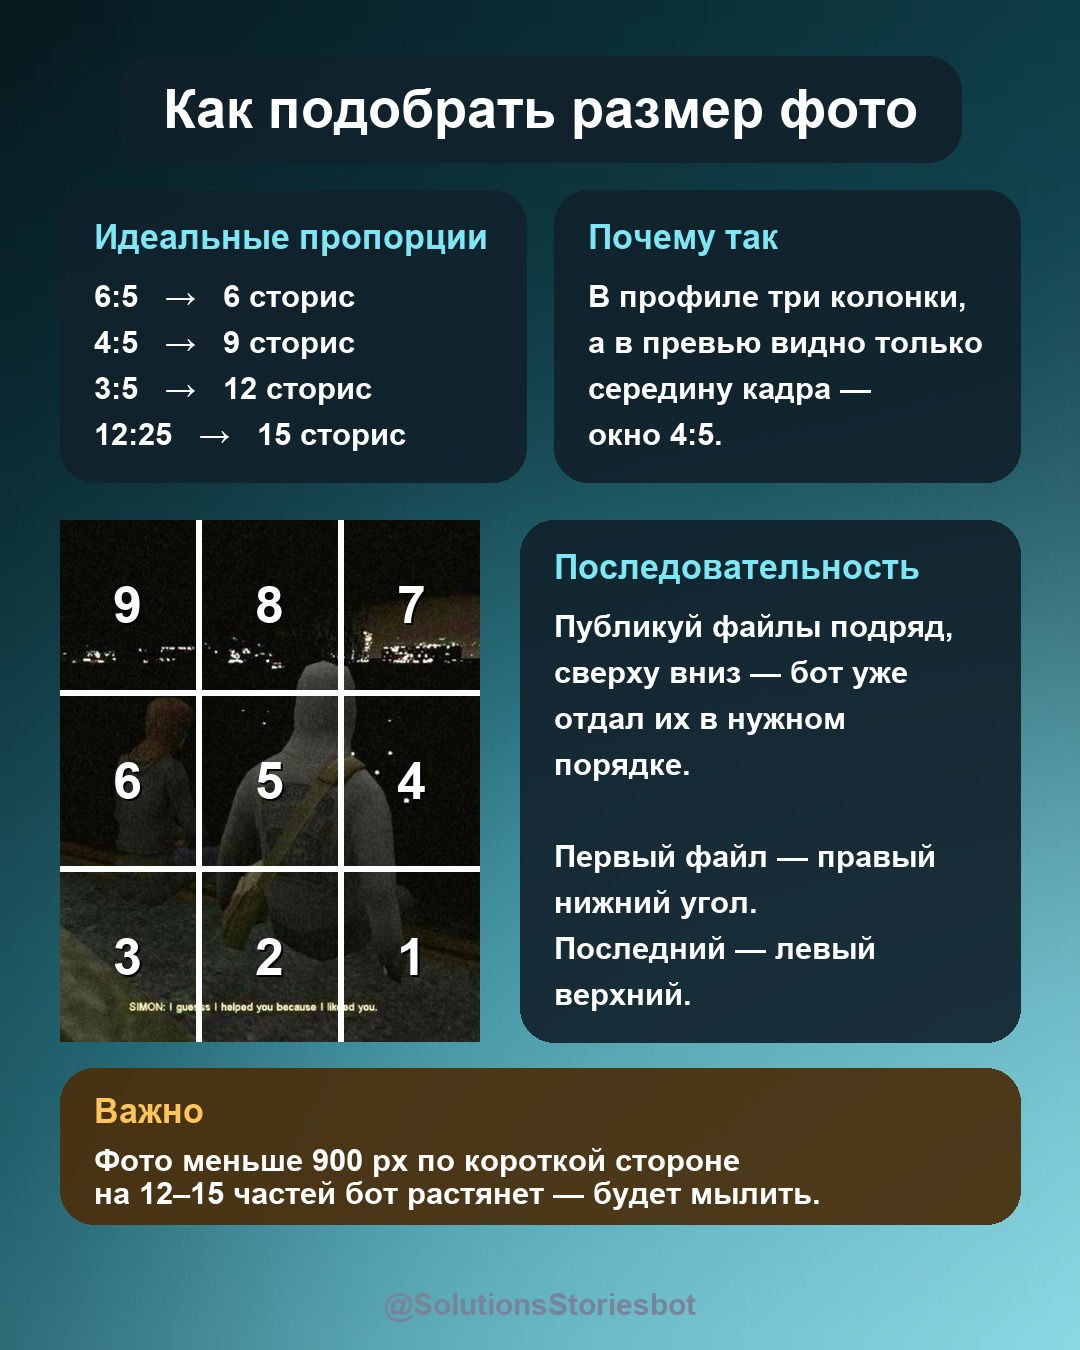
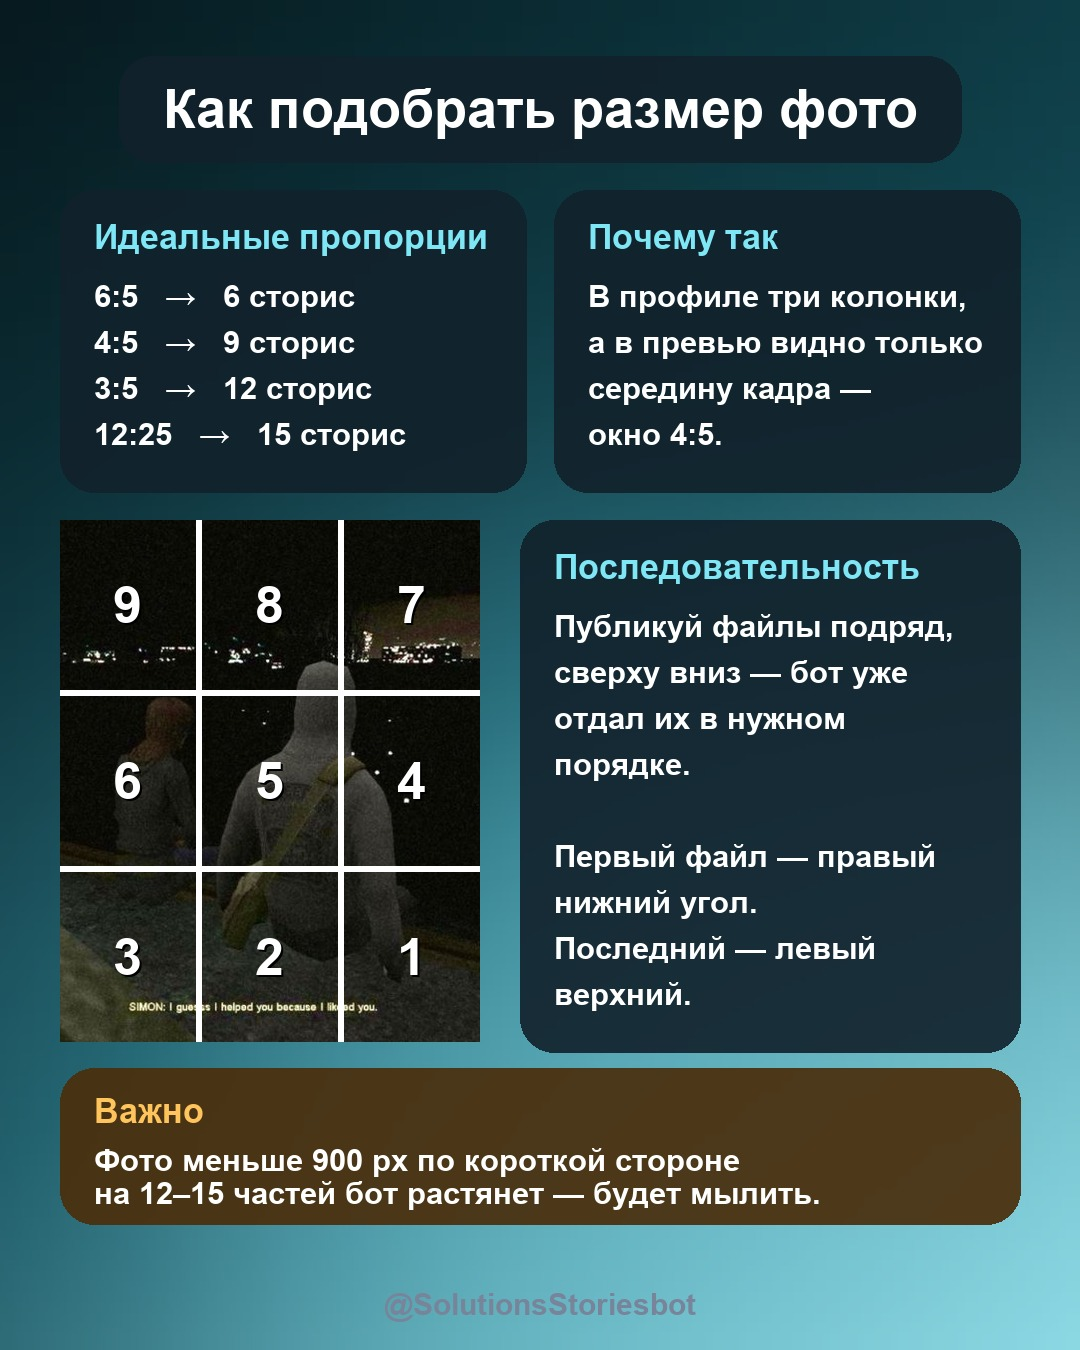
Рамки сомкнуты в ленту; плашки считают высоту от текста
Элементы стояли с зазорами, и глаз читал ряд отдельных значков, а не
венок. Теперь каждая рамка — сомкнутая лента в два слоя: задний сдвинут
на полшага и закрывает стыки переднего. Лавру заузили лист (широкий
давал шестерёнку), цепи подняли число звеньев с 16 до 26 — при 16 они
физически не доставали друг до друга.

Звёздная пыль была россыпью по площади: у россыпи нет края, поэтому
она и не читалась как рамка. Стала кольцом из трёх рядов.

chip() считает высоту плашки от числа строк. Заданная руками уже дважды
оказывалась короче текста, и последние строки уезжали на градиент —
это и были «вылетающие буквы».

Changed region(s): [[0.4889, 0.7467, 0.9472, 0.7778], [0.5194, 0.3422, 0.9472, 0.3733], [0.2139, 0.3422, 0.4889, 0.3733]]

diff --git a/frames.py b/frames.py
@@ -223,23 +223,30 @@ SHADE = (0, 0, 0, 120)
 
 
 def _laurel(w: Wreath) -> Image.Image:
-    """Лавр: две ветви от низа вверх, листья мельчают к вершине."""
-    gold, dark, shine = (238, 202, 120), (150, 112, 38), (255, 238, 190)
-    for side in (1, -1):
-        for i in range(13):
-            t = i / 12
-            angle = math.pi / 2 - side * (0.35 + t * 2.15)
-            cx, cy = w.at(angle, w.ring * (1 - 0.02 * math.sin(t * math.pi)))
-            length = w.big * (0.105 - 0.052 * t)
-            leaf = _leaf_shape(length, length * 0.30, tilt=0.18 * side)
-            #: Лист смотрит наружу и чуть отклонён по ходу ветви — от
-            #: этого наклона венок и читается как сплетённый.
-            w.piece(leaf, angle + math.pi / 2 + side * 0.42, cx, cy,
-                    _mix(gold, dark, t * 0.55), shade=SHADE, shine=shine + (90,))
-    #: Узел внизу: две ветви должны где-то сходиться.
-    cx, cy = w.at(math.pi / 2)
-    w.draw.ellipse((cx - w.big * 0.022, cy - w.big * 0.022,
-                    cx + w.big * 0.022, cy + w.big * 0.022), fill=gold + (255,))
+    """Лавр: сплошная лента листьев в два слоя.
+
+    Плотность здесь важнее рисунка отдельного листа. Пока между
+    элементами есть зазор, глаз видит ряд значков; как только соседи
+    перекрываются, лента читается одним предметом — венком.
+    """
+    gold, dark, shine = (240, 206, 126), (128, 94, 30), (255, 242, 200)
+    count = 46
+    for layer in (0, 1):
+        back = layer == 0
+        radius = w.ring * (1.055 if back else 0.985)
+        scale = 0.86 if back else 1.0
+        #: Задний слой сдвинут на полшага — стыки переднего ряда
+        #: закрываются, и просветов в ленте не остаётся.
+        shift = math.pi / count if back else 0.0
+        for i in range(count):
+            angle = i * math.tau / count + shift
+            cx, cy = w.at(angle, radius)
+            length = w.big * 0.098 * scale
+            leaf = _leaf_shape(length, length * 0.27, tilt=0.16)
+            colour = _mix(gold, dark, 0.62 if back else 0.10)
+            w.piece(leaf, angle + math.pi / 2 + 0.46, cx, cy, colour + (255,),
+                    shade=None if back else SHADE,
+                    shine=None if back else shine + (95,))
     return w.finish()
 
 
@@ -266,16 +273,18 @@ def _chain(w: Wreath) -> Image.Image:
     яркостью читаются как круглый металлический пруток.
     """
     steel, dark = (232, 236, 246), (92, 98, 114)
-    count = 16
-    tube = w.big * 0.0085
+    #: 16 звеньев при этом радиусе стояли с просветами — цепь
+    #: рассыпалась на отдельные колечки.
+    count = 26
+    tube = w.big * 0.0080
     for i in range(count):
         angle = i * math.tau / count
         #: Нечётные звенья чуть ближе к центру — тогда соседние
         #: перекрываются, и цепь перестаёт быть рядом отдельных колец.
         cx, cy = w.at(angle, w.ring * (1.0 if i % 2 == 0 else 0.972))
         flat = i % 2 == 0
-        rx = w.big * (0.040 if flat else 0.024)
-        ry = w.big * (0.024 if flat else 0.040)
+        rx = w.big * (0.046 if flat else 0.027)
+        ry = w.big * (0.027 if flat else 0.046)
         spin = angle + math.pi / 2
         cos_s, sin_s = math.cos(spin), math.sin(spin)
         for k in range(40):
@@ -295,8 +304,8 @@ def _chain(w: Wreath) -> Image.Image:
 def _flame(w: Wreath) -> Image.Image:
     """Пламя: языки снизу, выше — короче и бледнее, всё в свечении."""
     rng = random.Random(3)
-    for i in range(34):
-        t = i / 33
+    for i in range(52):
+        t = i / 51
         #: Языки гуще внизу: пламя не окружает голову равномерно.
         angle = math.pi / 2 + (t - 0.5) * math.tau * 0.88
         spread = abs(math.sin(angle))
@@ -317,61 +326,62 @@ def _flame(w: Wreath) -> Image.Image:
 
 def _sakura(w: Wreath) -> Image.Image:
     """Сакура: три грозди разного размера, между ними — редкие цветки."""
-    pink, deep, heart = (255, 214, 226), (226, 108, 150), (255, 226, 130)
+    pink, deep, heart = (255, 216, 228), (222, 100, 146), (255, 226, 130)
     rng = random.Random(7)
-    spots: list[tuple[float, float]] = []
-    for base, count, scale in ((-1.25, 6, 1.0), (0.55, 5, 0.82), (2.55, 4, 0.66)):
+    #: Сомкнутая лента цветов: 22 штуки при таком размере лепестка
+    #: перекрываются, и венок становится венком. Размер всё равно гуляет
+    #: — ровные одинаковые цветы выглядят штампом.
+    count = 22
+    for layer in (0, 1):
+        back = layer == 0
         for i in range(count):
-            spots.append((base + (i - count / 2) * 0.24, scale * (0.78 + 0.32 * rng.random())))
-    for i in range(7):
-        spots.append((i * math.tau / 7 + 0.3, 0.42 + 0.14 * rng.random()))
-
-    for angle, scale in spots:
-        cx, cy = w.at(angle, w.ring * (0.97 + 0.06 * rng.random()))
-        petal_len = w.big * 0.050 * scale
-        for k in range(5):
-            spin = angle + k * math.tau / 5 + rng.random() * 0.12
-            w.piece(_petal_shape(petal_len, petal_len * 0.46), spin, cx, cy,
-                    _mix(pink, deep, 0.18 + 0.5 * rng.random()) + (250,), shade=SHADE)
-        r = petal_len * 0.20
-        w.draw.ellipse((cx - r, cy - r, cx + r, cy + r), fill=heart + (255,))
+            angle = (i + (0.5 if back else 0.0)) * math.tau / count
+            cx, cy = w.at(angle, w.ring * (1.055 if back else 0.98))
+            petal_len = w.big * (0.044 if back else 0.056) * rng.uniform(0.86, 1.14)
+            for k in range(5):
+                spin = angle + k * math.tau / 5 + rng.uniform(-0.1, 0.1)
+                w.piece(_petal_shape(petal_len, petal_len * 0.48), spin, cx, cy,
+                        _mix(pink, deep, (0.55 if back else 0.12) + 0.3 * rng.random()) + (250,),
+                        shade=None if back else SHADE)
+            if not back:
+                r = petal_len * 0.22
+                w.draw.ellipse((cx - r, cy - r, cx + r, cy + r), fill=heart + (255,))
     return w.finish()
 
 
 def _stardust(w: Wreath) -> Image.Image:
     """Звёздная пыль: крупные искры сгущаются к правому верху."""
     rng = random.Random(21)
-    for i in range(120):
-        angle = rng.uniform(0, math.tau)
-        #: Вес к верхне-правому сектору: равномерная россыпь выглядит
-        #: как рамка из ворда, сгущение — как свет из точки.
-        weight = 0.30 + 0.70 * max(0.0, math.cos(angle + math.pi / 4))
-        if rng.random() > weight:
-            continue
-        radius = w.ring * rng.uniform(0.90, 1.12)
-        cx, cy = w.at(angle, radius)
-        #: Крупные искры обязательны: из одной мелочи получается пыль на
-        #: объективе, а не украшение.
-        outer = w.big * rng.uniform(0.030, 0.085) * (0.45 + 0.55 * weight)
-        w.piece(_star_shape(outer, outer * 0.15), rng.uniform(0, 1.5), cx, cy,
-                (255, 255, 255, 250), glow=(150, 220, 255, 190))
+    #: Сомкнутое кольцо из трёх рядов, а не россыпь по площади. Россыпь
+    #: и была тем самым «накиданными символами»: у неё нет края, поэтому
+    #: она не читается как рамка.
+    for radius_mul, count, lo, hi in ((1.075, 26, 0.020, 0.034),
+                                      (1.0, 22, 0.038, 0.062),
+                                      (0.935, 26, 0.018, 0.030)):
+        for i in range(count):
+            angle = i * math.tau / count + rng.uniform(-0.04, 0.04)
+            cx, cy = w.at(angle, w.ring * radius_mul * rng.uniform(0.985, 1.015))
+            outer = w.big * rng.uniform(lo, hi)
+            w.piece(_star_shape(outer, outer * 0.15), rng.uniform(0, 1.5), cx, cy,
+                    (255, 255, 255, 250), glow=(150, 220, 255, 170))
     return w.finish()
 
 
 def _thorns(w: Wreath) -> Image.Image:
     """Терновник: изогнутые шипы, каждый со светлой кромкой."""
     dark, edge = (38, 22, 48), (150, 96, 190)
-    count = 26
+    #: Плотный частокол: шипы должны касаться основаниями.
+    count = 66
     for i in range(count):
         angle = i * math.tau / count
-        cx, cy = w.at(angle, w.ring * 0.98)
+        cx, cy = w.at(angle, w.ring * (1.03 if i % 2 else 0.97))
         long_one = i % 3 == 0
         length = w.big * (0.105 if long_one else 0.062)
         bend = 0.30 if i % 2 else -0.30
-        spike = [(0, -length), (w.big * 0.016, -length * 0.25),
+        spike = [(0, -length), (w.big * 0.021, -length * 0.25),
                  (w.big * 0.010 + bend * w.big * 0.02, length * 0.16),
                  (-w.big * 0.010 + bend * w.big * 0.02, length * 0.16),
-                 (-w.big * 0.016, -length * 0.25)]
+                 (-w.big * 0.021, -length * 0.25)]
         w.piece(spike, angle + math.pi / 2 + bend * 0.5, cx, cy, dark + (255,),
                 shade=SHADE, shine=edge + (120,))
     return w.finish()
@@ -379,21 +389,23 @@ def _thorns(w: Wreath) -> Image.Image:
 
 def _pearls(w: Wreath) -> Image.Image:
     """Жемчуг: крупные и мелкие вперемешку, у каждой бусины блик."""
-    base, deep = (255, 252, 248), (176, 170, 186)
-    count = 30
-    for i in range(count):
-        angle = i * math.tau / count
-        big_one = i % 3 == 0
-        r = w.big * (0.030 if big_one else 0.018)
-        cx, cy = w.at(angle, w.ring * (1.0 if big_one else 0.985))
-        w.sdraw.ellipse((cx - r + w.big * 0.005, cy - r + w.big * 0.005,
-                         cx + r + w.big * 0.005, cy + r + w.big * 0.005), fill=SHADE)
-        w.draw.ellipse((cx - r, cy - r, cx + r, cy + r), fill=_mix(base, deep, 0.28) + (255,))
-        #: Блик смещён в одну сторону у всех бусин — иначе свет
-        #: выглядит приходящим отовсюду, и объём пропадает.
-        hr = r * 0.34
-        hx, hy = cx - r * 0.34, cy - r * 0.36
-        w.draw.ellipse((hx - hr, hy - hr, hx + hr, hy + hr), fill=(255, 255, 255, 235))
+    base, deep = (255, 252, 248), (168, 162, 180)
+    #: Два сомкнутых ряда: нижний виден в просветах верхнего, поэтому
+    #: нитка выглядит нитью, а не пунктиром из точек.
+    for radius_mul, r_mul, count, shift in ((1.050, 0.020, 34, 0.5), (0.985, 0.027, 30, 0.0)):
+        for i in range(count):
+            angle = (i + shift) * math.tau / count
+            r = w.big * r_mul
+            cx, cy = w.at(angle, w.ring * radius_mul)
+            w.sdraw.ellipse((cx - r + w.big * 0.005, cy - r + w.big * 0.005,
+                             cx + r + w.big * 0.005, cy + r + w.big * 0.005), fill=SHADE)
+            w.draw.ellipse((cx - r, cy - r, cx + r, cy + r),
+                           fill=_mix(base, deep, 0.50 if r_mul < 0.024 else 0.18) + (255,))
+            #: Блик смещён в одну сторону у всех бусин — иначе свет
+            #: выглядит приходящим отовсюду, и объём пропадает.
+            hr = r * 0.34
+            hx, hy = cx - r * 0.34, cy - r * 0.36
+            w.draw.ellipse((hx - hr, hy - hr, hx + hr, hy + hr), fill=(255, 255, 255, 230))
     return w.finish()
 
 
@@ -401,8 +413,8 @@ def _ice(w: Wreath) -> Image.Image:
     """Лёд: осколки разной длины, полупрозрачные, с белой кромкой."""
     rng = random.Random(4)
     tint = (196, 238, 255)
-    for i in range(20):
-        angle = i * math.tau / 20 + rng.uniform(-0.06, 0.06)
+    for i in range(34):
+        angle = i * math.tau / 34 + rng.uniform(-0.05, 0.05)
         cx, cy = w.at(angle, w.ring * 0.99)
         length = w.big * rng.uniform(0.055, 0.115)
         shard = _shard_shape(length, w.big * 0.022)
@@ -414,15 +426,19 @@ def _ice(w: Wreath) -> Image.Image:
 def _hearts(w: Wreath) -> Image.Image:
     """Сердца: гроздь слева внизу и редкая россыпь по остальному кругу."""
     rng = random.Random(11)
-    warm, deep = (255, 120, 158), (196, 28, 84)
-    spots = [(2.05 + (i - 3) * 0.26, 0.85 + 0.45 * rng.random()) for i in range(7)]
-    spots += [(i * math.tau / 9 + 0.7, 0.42 + 0.2 * rng.random()) for i in range(9)]
-    for angle, scale in spots:
-        cx, cy = w.at(angle, w.ring * (0.96 + 0.08 * rng.random()))
-        r = w.big * 0.042 * scale
-        w.piece(_heart_shape(r), angle + math.pi / 2 + rng.uniform(-0.3, 0.3), cx, cy,
-                _mix(warm, deep, rng.random() * 0.6) + (250,),
-                shade=SHADE, shine=(255, 220, 232, 130), glow=(255, 90, 140, 90))
+    warm, deep = (255, 126, 162), (188, 24, 80)
+    for layer in (0, 1):
+        back = layer == 0
+        count = 26
+        for i in range(count):
+            angle = (i + (0.5 if back else 0.0)) * math.tau / count
+            cx, cy = w.at(angle, w.ring * (1.055 if back else 0.98))
+            r = w.big * (0.036 if back else 0.048) * rng.uniform(0.88, 1.12)
+            w.piece(_heart_shape(r), angle + math.pi / 2 + rng.uniform(-0.18, 0.18), cx, cy,
+                    _mix(warm, deep, (0.62 if back else 0.10) + 0.25 * rng.random()) + (250,),
+                    shade=None if back else SHADE,
+                    shine=None if back else (255, 220, 232, 130),
+                    glow=(255, 90, 140, 70))
     return w.finish()
 
 

diff --git a/make_assets.py b/make_assets.py
@@ -449,15 +449,25 @@ def footer(card: Image.Image, text: str = HANDLE) -> None:
     )
 
 
-def chip(draw: ImageDraw.ImageDraw, box, title: str, lines: list[str]) -> None:
-    """Скруглённая плашка с заголовком и строками."""
+def chip(draw: ImageDraw.ImageDraw, box, title: str, lines: list[str]) -> int:
+    """Скруглённая плашка с заголовком и строками.
+
+    Высота считается от содержимого, а не задаётся руками: заданная
+    руками уже дважды оказывалась короче текста, и последние строки
+    уезжали на градиент под плашкой. Четвёртый элемент box теперь
+    только минимум высоты.
+    """
     x0, y0, x1, y1 = box
-    draw.rounded_rectangle(box, radius=RADIUS, fill=PLATE + (PLATE_ALPHA,))
+    top_pad, line_step, bottom_pad = 88, 46, 30
+    needed = top_pad + line_step * len(lines) + bottom_pad
+    bottom = max(y1, y0 + needed)
+    draw.rounded_rectangle((x0, y0, x1, bottom), radius=RADIUS, fill=PLATE + (PLATE_ALPHA,))
     draw.text((x0 + 34, y0 + 28), title, font=font(34), fill=ACCENT)
-    y = y0 + 88
+    y = y0 + top_pad
     for line in lines:
         draw.text((x0 + 34, y), line, font=font(31), fill=INK)
-        y += 46
+        y += line_step
+    return int(bottom)
 
 
 def title_plate(draw: ImageDraw.ImageDraw, text: str, top: int = 56, size: int = 54) -> int:
@@ -692,11 +702,10 @@ def make_frames(source: bytes) -> Image.Image:
         card.paste(shot, (start_x + i * (size + gap), row_y))
 
     chip(
-        draw, (60, 1058, W - 60, 1216), "Как это работает",
+        draw, (60, 1050, W - 60, 1050), "Как это работает",
         [
             f"{frames_mod.frame_count()} рамок × {len(frames_mod.COLORS)} фонов, включая подарочные.",
-            "Фон под рамкой — фон твоего профиля,",
-            "поэтому она выглядит частью интерфейса.",
+            "Фон под рамкой — тот, что стоит у тебя в профиле.",
         ],
     )
     footer(card)
